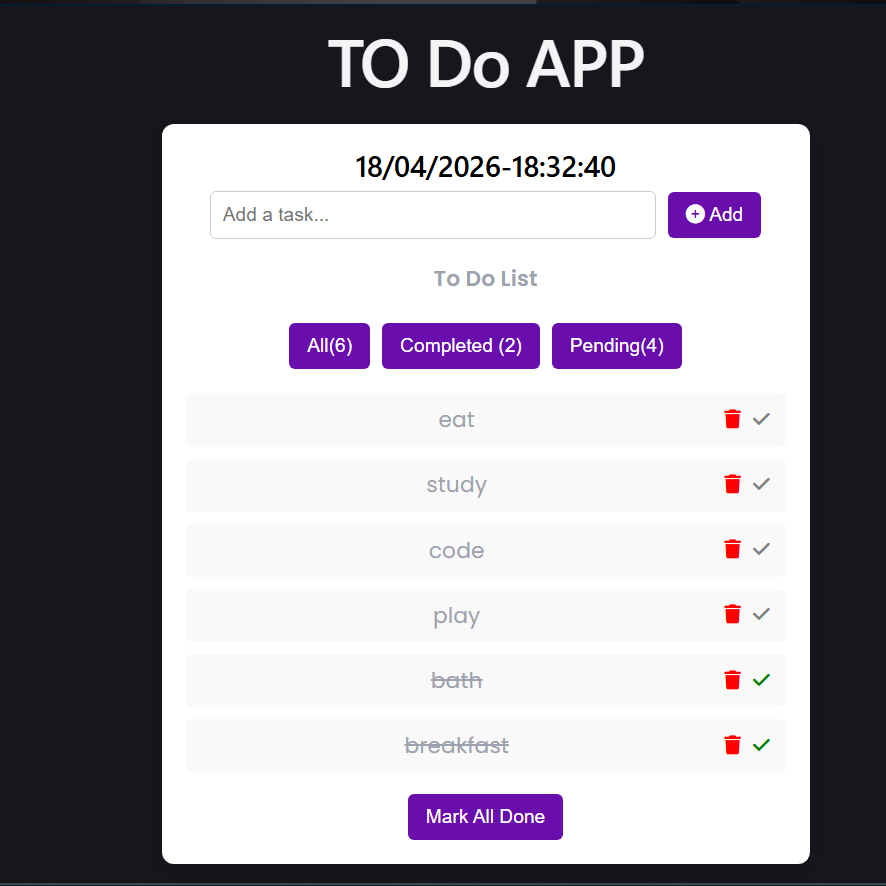
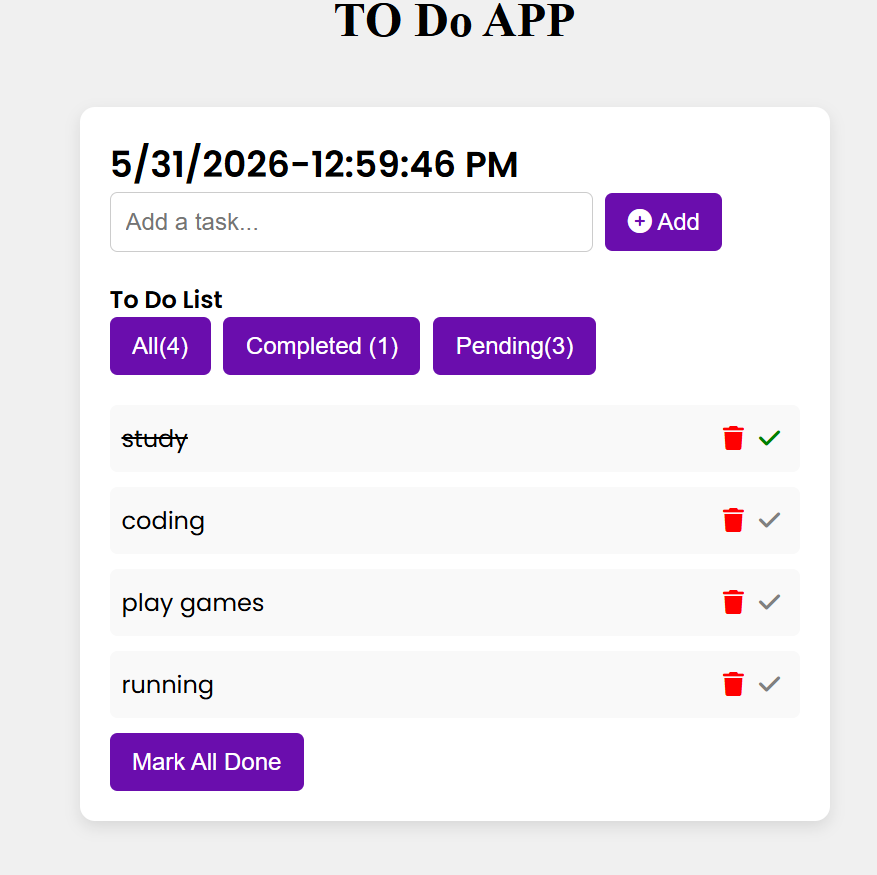
README file updated

diff --git a/README.md b/README.md
@@ -1,34 +1,111 @@
-# Todo App
+# 📝 React Todo App
 
-A simple and responsive Todo application built using React and Vite. It helps users manage daily tasks efficiently.
+A modern Todo application built with React that helps users manage tasks efficiently. It supports task creation, filtering, and persistent storage using Local Storage.
 
-## Features
+---
 
-* Add tasks
-* Delete tasks
-* Mark tasks as completed
+## 🚀 Features
 
-## Tech Stack
+- ➕ Add new tasks
+- 🗑️ Delete tasks
+- ✔️ Mark tasks as completed
+- ⏳ Filter tasks (All / Completed / Pending)
+- ✔️ Mark all tasks as completed
+- 💾 Persistent storage using Local Storage
+- ⚡ Fast and responsive UI
 
-* React
-* Vite
-* JavaScript
-* CSS
+---
 
-## Installation
+## 🛠️ Tech Stack
 
-```bash
-git clone https://github.com/your-username/your-repo.git
-cd your-repo
-npm install
-npm run dev
+- React.js
+- JavaScript (ES6+)
+- CSS
+- Local Storage API
+
+---
+
+## 📂 Project Structure
+
+```text
+TODO-APP/
+│
+├── src/
+│   ├── App.jsx
+│   ├── index.js
+│   └── styles.css
+│
+├── public/
+├── package.json
+└── README.md
 ```
 
-## Future Improvements
+---
+## 🚀 Live Demo
 
-* Add local storage
-* User authentication
+🔗 [View Live App](https://to-do-app-iota-azure.vercel.app/)
 
-## Author
+## 📸 Screenshots
 
-Anonymous
+### Todo App UI
+
+![Todo App](src/assets/Preview.png)
+
+---
+
+## ⚙️ Installation & Setup
+
+### 1. Clone the repository
+
+```bash
+git clone https://github.com/your-username/todo-app.git
+```
+
+### 2. Navigate to project folder
+
+```bash
+cd todo-app
+```
+
+### 3. Install dependencies
+
+```bash
+npm install
+```
+
+### 4. Run the app
+
+```bash
+npm start
+```
+
+App will run at:
+```
+http://localhost:3000
+```
+
+---
+
+## 💡 How It Works
+
+- React state manages tasks
+- Local Storage saves data in browser
+- Filters are handled using conditional rendering
+- UI updates instantly on state change
+
+---
+
+## 🚀 Future Improvements
+
+- Backend with database (MongoDB/Firebase)
+- User authentication
+- Drag & drop tasks
+- Dark mode
+- Due dates & reminders
+
+---
+
+## 👨💻 Author
+
+Ankit Kumar  
+GitHub: https://github.com/ankiiitkumar01-lab